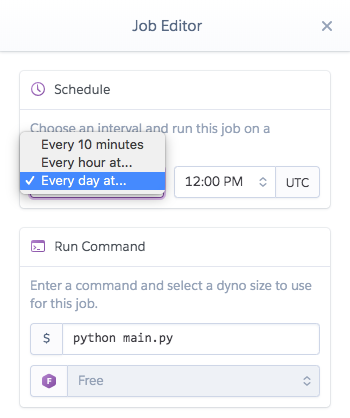
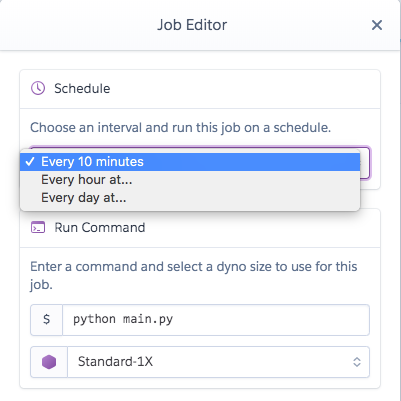
change schedule to every 10 minutes

diff --git a/main.py b/main.py
@@ -36,6 +36,7 @@ logger.addHandler(handler)
 logger.setLevel(DEBUG)
 
 
+# Plan to create reminder
 class Competition:
     def __init__(self, info):
         self.title = getattr(info, 'title')
@@ -44,9 +45,9 @@ class Competition:
         self.end_date = getattr(info, 'deadline')
         self.user_enter = getattr(info, 'userHasEntered')
 
-        # assume to run once a day
+        # assume to run once every 10 minutes
         now = datetime.datetime.utcnow()
-        if self.start_date >= now - datetime.timedelta(days=1):
+        if self.start_date >= now - datetime.timedelta(minutes=10):
             self.notify_message = NEW_COMPETITION
         else:
             self.notify_message = DO_NOT_NOTIFY

diff --git a/README.md b/README.md
@@ -20,14 +20,14 @@ Standard plan is free, so please don't worry.
 ### 2. Set task on Heroku
 ![](img/select-scheduler.png)
 
-Set `FREQUENCY` with `Daily`.
+Set `Schedule` with `Every 10 minutes`.
 
 ![](img/set-schedule.png)
 
-If you get at short intervals, please fork and correct the program.
 ```
+# assume to run once every 10 minutes
 now = datetime.datetime.utcnow()
-if self.start_date >= now - datetime.timedelta(days=ONE_DAY):
+if self.start_date >= now - datetime.timedelta(minutes=10):
     self.notify_message = NEW_COMPETITION
 else:
     self.notify_message = DO_NOT_NOTIFY
